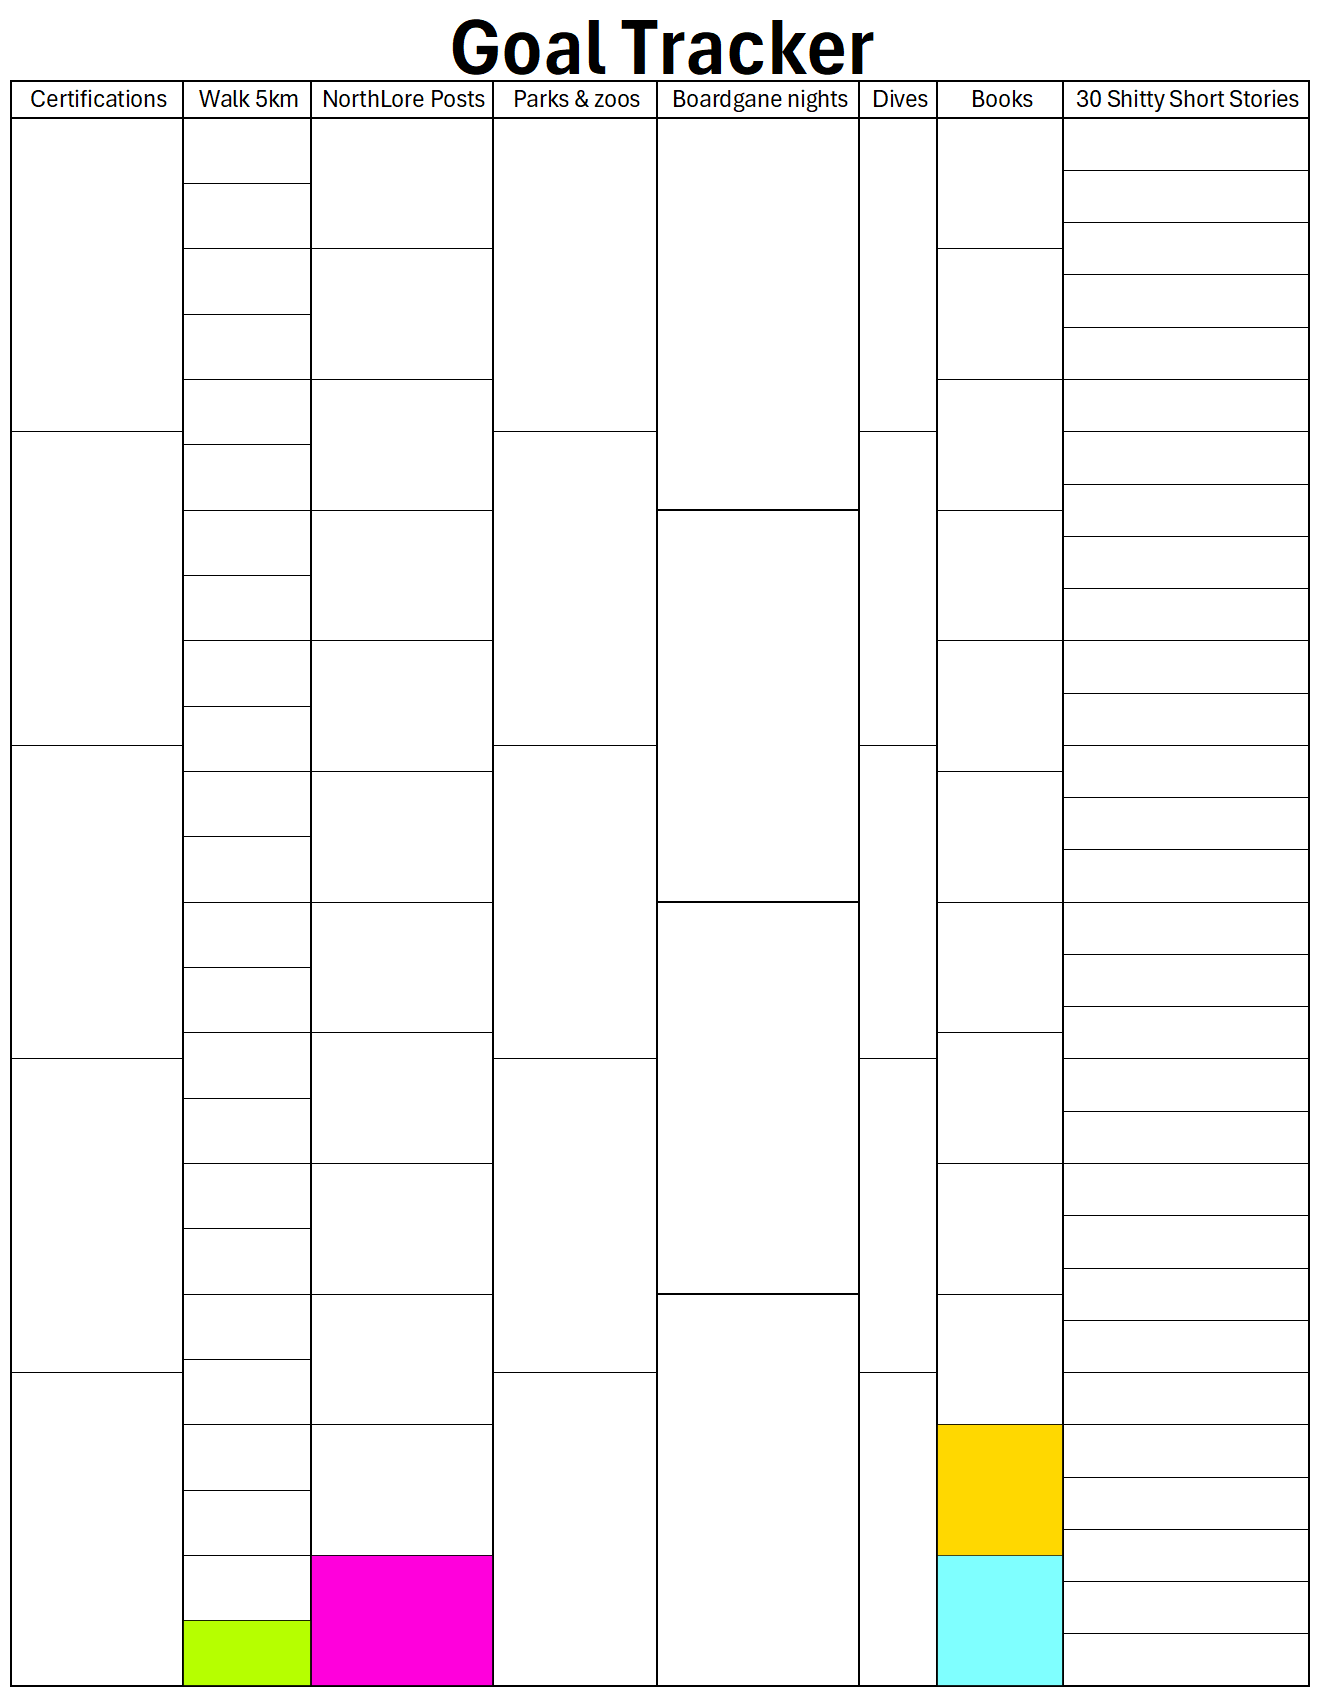
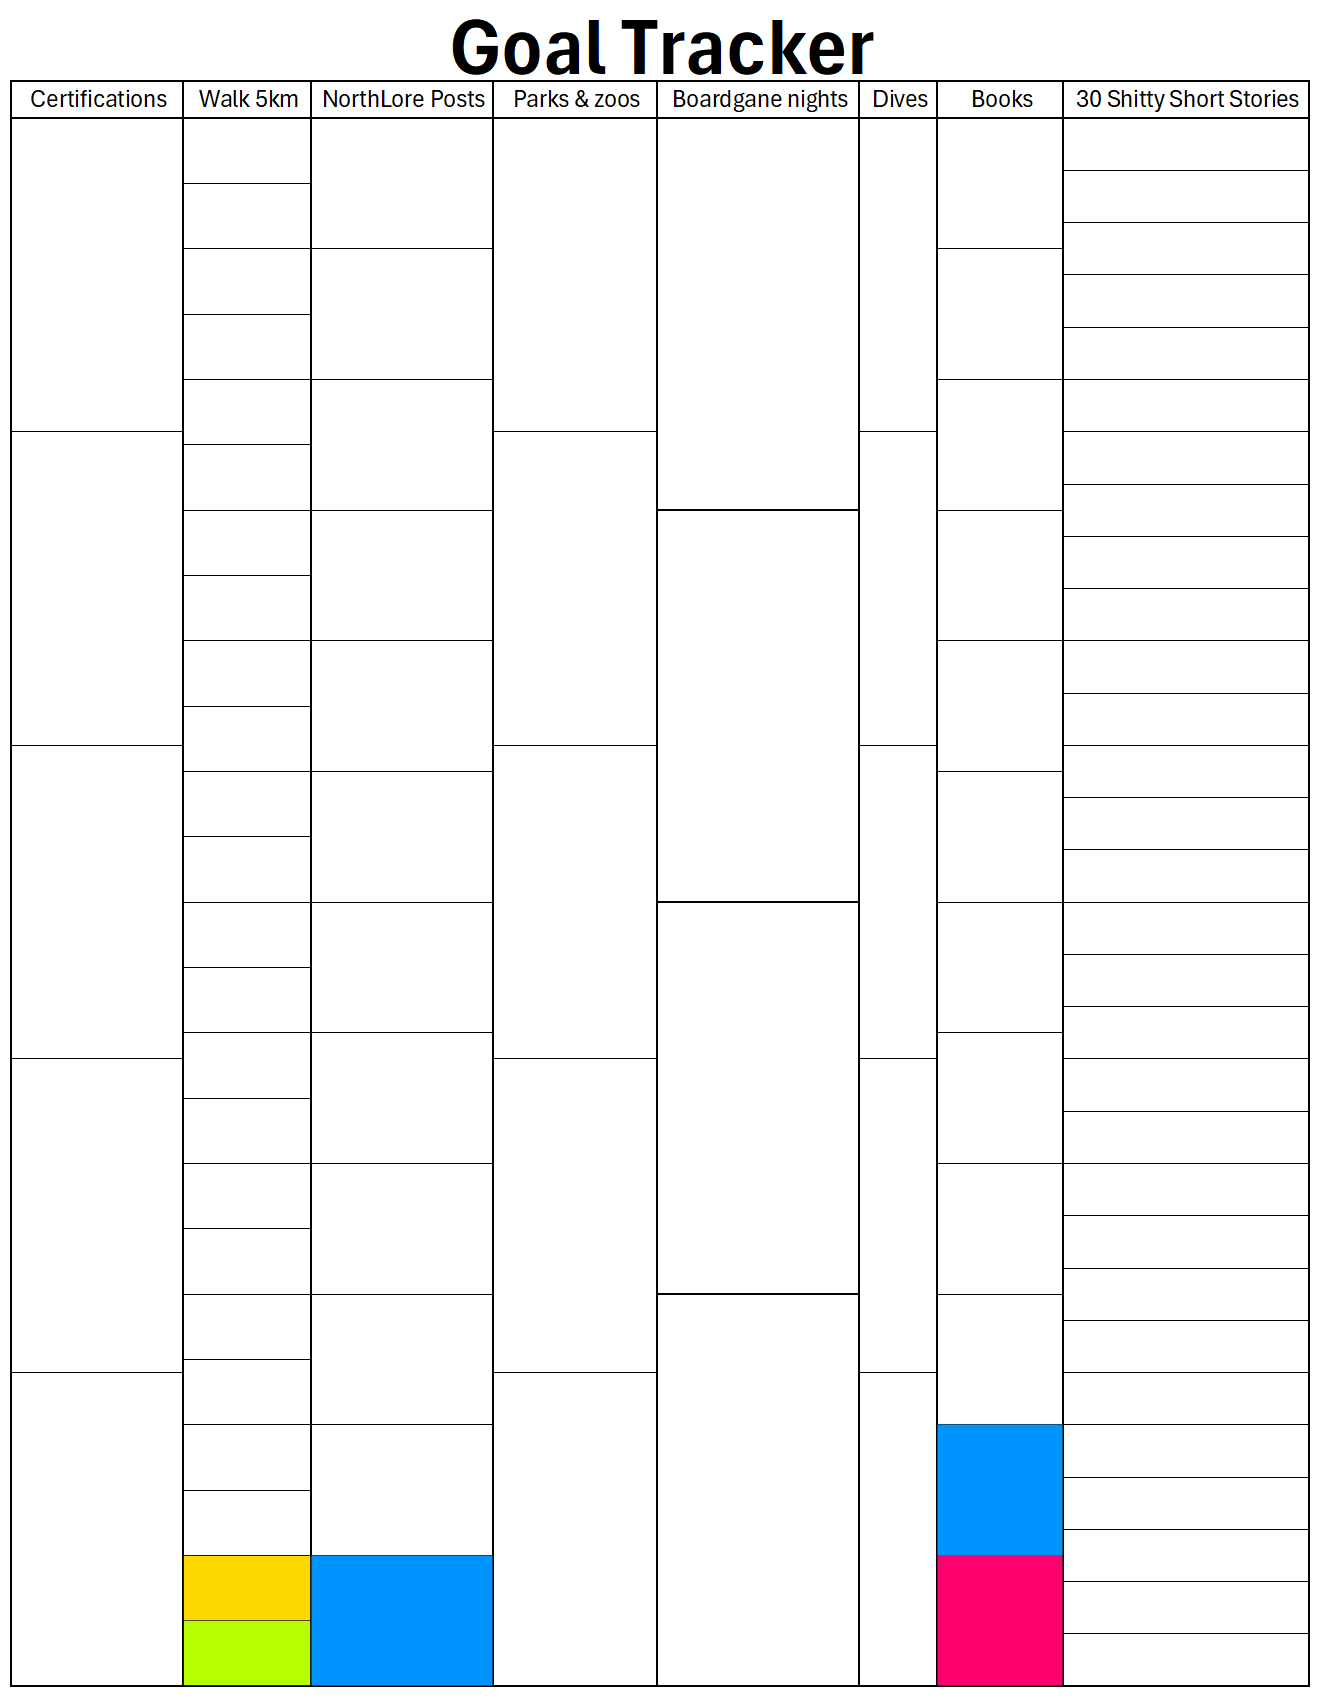
Update tracker + add legend to Bingo

Changed region(s): [[0.6849, 0.812, 0.8094, 0.9994], [0.1245, 0.9057, 0.3736, 0.9994]]

diff --git a/src/posts/the_forge/2026Bingo.md b/src/posts/the_forge/2026Bingo.md
@@ -60,3 +60,15 @@ Now that you have made a collection of good, sensible goals, I invite you to sha
 
 I hope you will be playing along, and look forward to seeing your Bingo Cards and other goal games. <br>
 Good luck, and have fun!
+
+<hr>
+
+## TLDR; Milestones reached
+| Date | Goal | Note |
+| ----- | ---- | ---- |
+| 11/01 | 5K Walks | With scouts |
+| 18/01 | Read Books | A Christmas Carol |
+| 01/02 | NorthLore Posts | 2026 Bingo |
+| 01/02 | Read Books | Hurog: Dragon Blood |
+| 21/02 | 5K Walks | Saturday walk |
+
